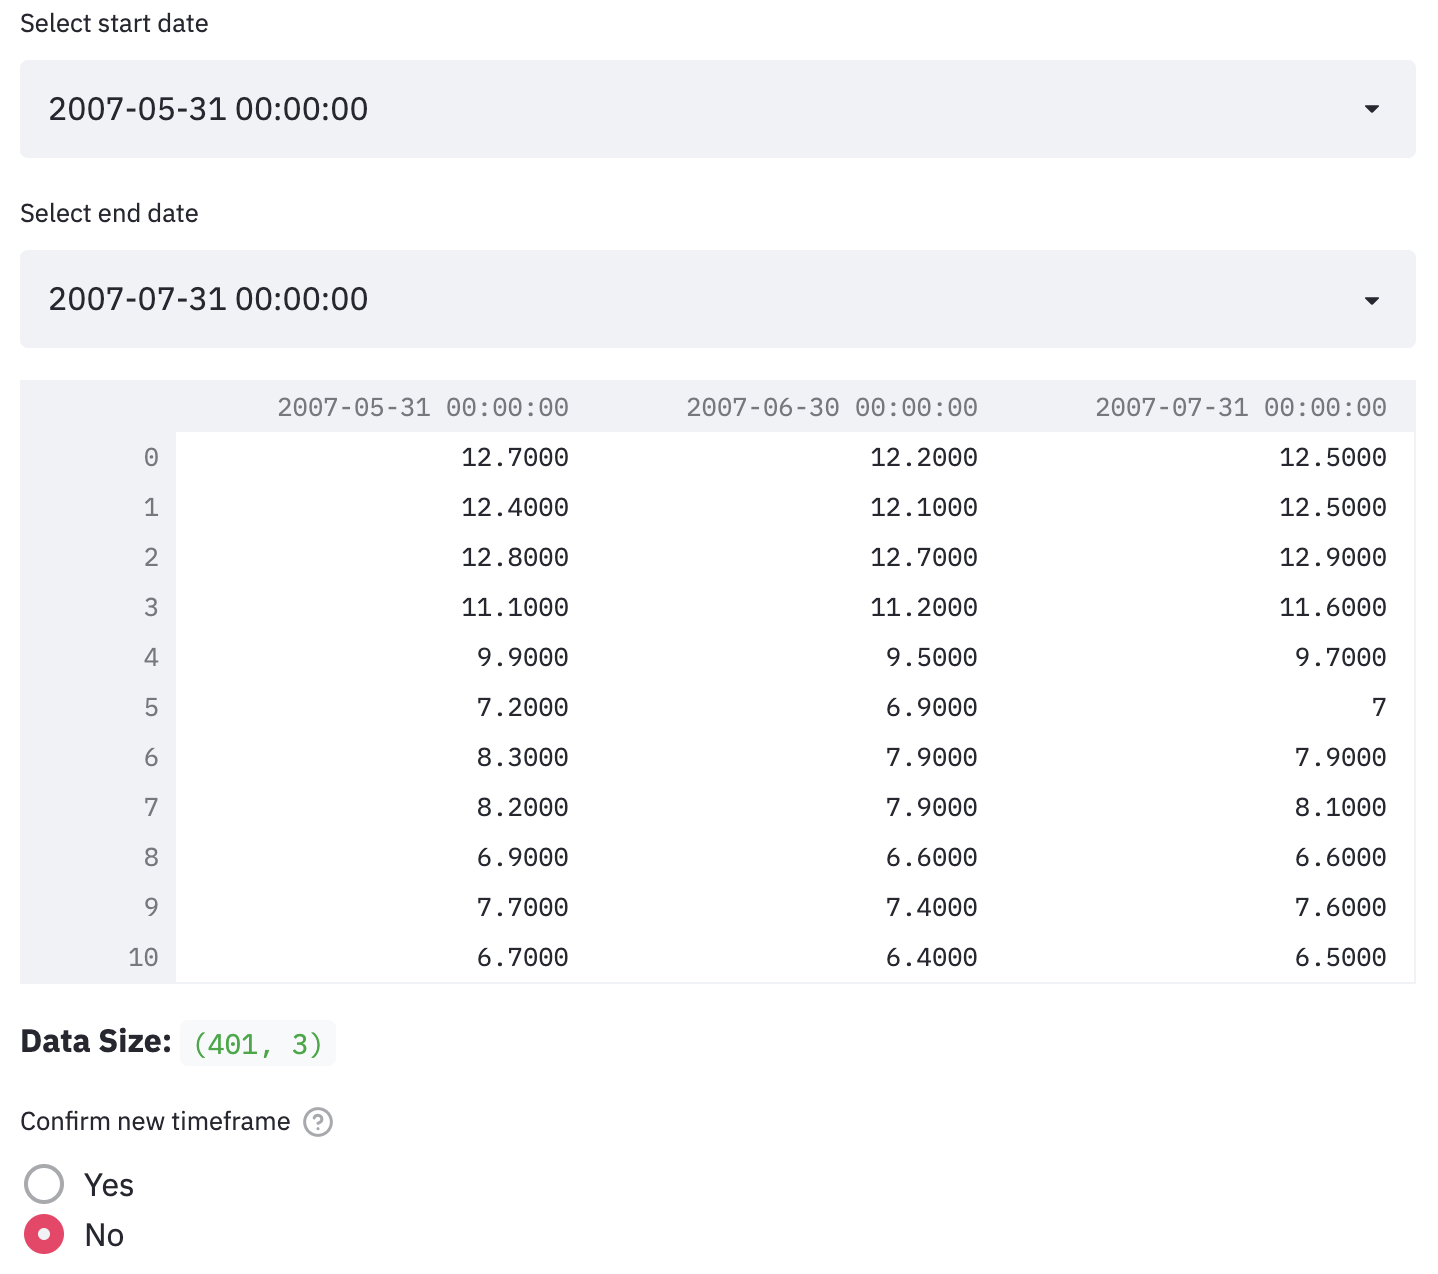
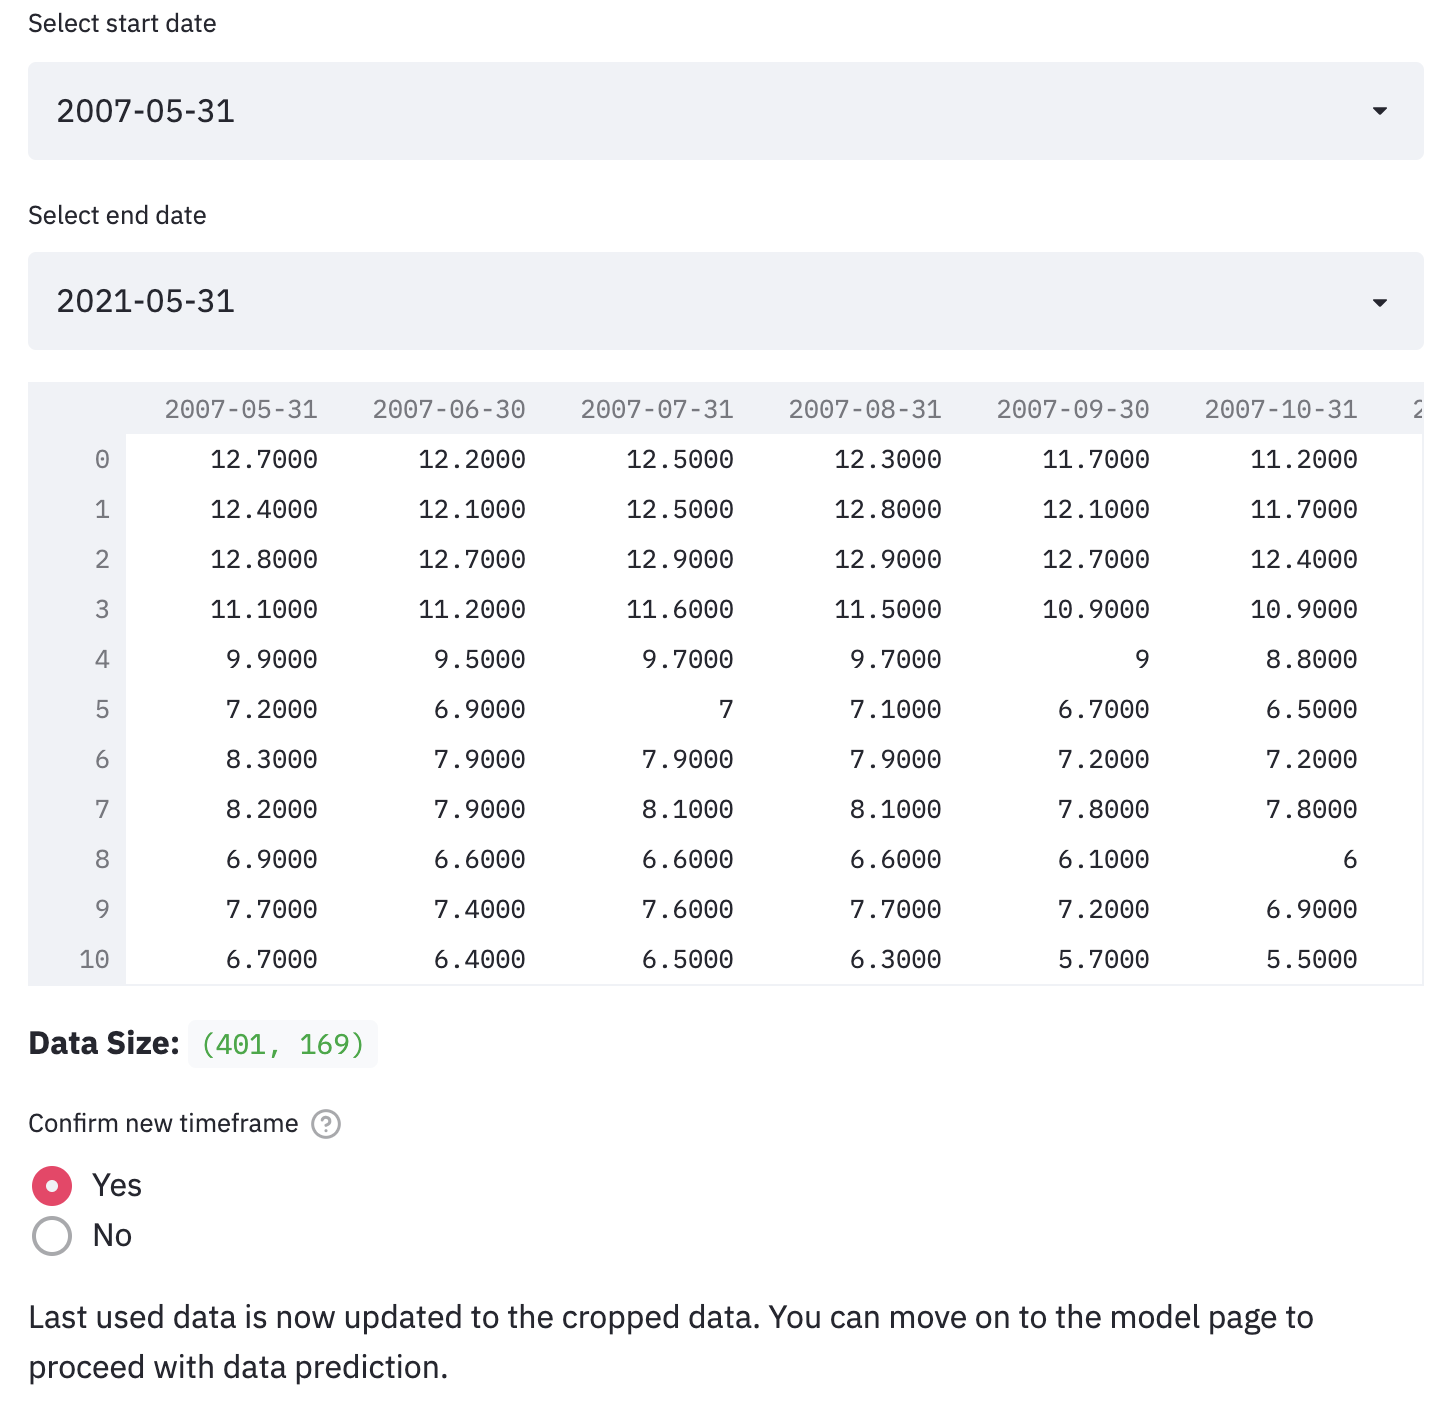
update data prep page screenshots

diff --git a/pages/data_prep.py b/pages/data_prep.py
@@ -200,7 +200,8 @@ def app():
             help='Crop the time-series data to the appropriate timeframe for model prediction.')
         
         if confirm_crop_data == "Yes":
-            st.write("Last used data now updated to the cropped data.")
+            st.write("Last used data is now updated to the cropped data. \
+                    You can move on to the model page to proceed with data prediction.")
             cropped_data.to_csv('data/main_data.csv', index=False, encoding='latin_1')
             st.write(get_table_download_link(cropped_data, text="download csv", \
                 filename=f"cropped_data.csv"), unsafe_allow_html=True)
